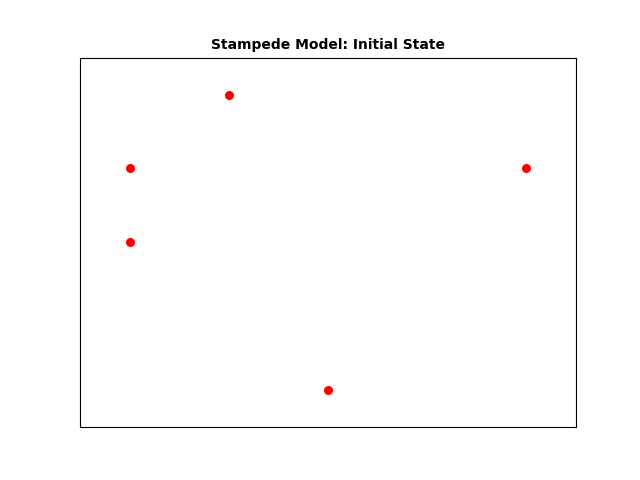
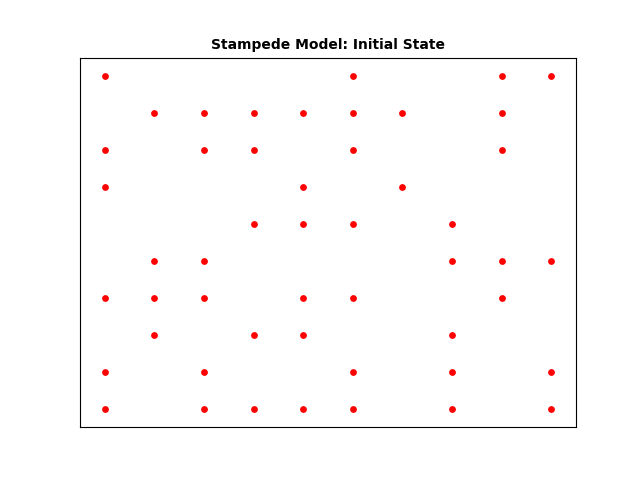
index errors were fixed, I /think/ the graph is moving agents correctly, output is only printing for a select few agents though :(

diff --git a/Stampede.py b/Stampede.py
@@ -46,6 +46,7 @@ class Stampede:
                     newAgent.position['x'] = x
                     newAgent.position['y'] = y
                     break
+
     def nine_square_ring(self, x,y):
         full_spots = 0
         # Lower left square
@@ -184,23 +185,28 @@ class Stampede:
             self.old_agents = copy.deepcopy(self.agents)
             n_changes = 0
             
-            for row in self.old_agents: # each player moves one-by-one
+            for row in self.agents: # each player moves one-by-one
                 for agent in row:
                     if agent != '' and agent.alive: # if that spot isn't empty
-                        print("agent coords: ", agent.position)
+                        # print("agent coords: ", agent.position)
                         firstStep = self.get_first_step(agent)
 
                         if firstStep == None: # if the agent can't find a path to where they want to go
+                            # swap x,y coords so that the following logic vvv works:
+                            # tempX = agent.position['x']
+                            # agent.position['x'] = agent.position['y']
+                            # agent.position['y'] = tempX 
+
                             # move forward, or if you can't, then vvv
                             # play a normal-form game with the person in front of them
                             if agent.position['y'] != 0:  # if agent is not at the bottom row 
-                                other_agent = self.agents[agent.position['y'] + 1][agent.position['x']]
-                                if self.agents[agent.position['y'] + 1][agent.position['x']] == '':
+                                other_agent = self.agents[agent.position['y'] - 1][agent.position['x']]
+                                if self.agents[agent.position['y'] - 1][agent.position['x']] == '':
                                     # Move the agent forward if space is empty
-                                    self.agents[agent.position['y'] + 1][agent.position['x']] = agent
+                                    self.agents[agent.position['y'] - 1][agent.position['x']] = agent
                                     self.agents[agent.position['y']][agent.position['x']] = ''
                                     n_changes += 1  # Increment the change counter
-                                elif self.agents[agent.position['y'] + 1][agent.position['x']] != '' and other_agent.alive:
+                                elif self.agents[agent.position['y'] - 1][agent.position['x']] != '' and other_agent.alive:
                                     # Play a normal-form game
                                     agent_strategy, other_agent_strategy = self.play_normal_form_game(agent, other_agent)
                                     # game results 
@@ -271,9 +277,9 @@ class Stampede:
                                 
                                     n_changes += 1  # Increment the change counter
 
-                            elif self.agents[agent.position['x']][agent.position['y']] != '':
+                            elif self.agents[agent.position['y']][agent.position['x']] != '':
                                 # remove from agent list 
-                                self.agents[agent.position['x']][agent.position['y']] = ''
+                                self.agents[agent.position['y']][agent.position['x']] = ''
                                 n_changes += 1  # Increment the change counter
                             else:
                                 # has already been removed, do nothing
@@ -550,7 +556,7 @@ class Stampede:
     def results(self, agent_list):
         isDead = 0
         didFall = 0
-        counter = 1
+        counter = 0
         for agents in agent_list:
             for agent in agents:
                 if (agent != ''):
@@ -569,7 +575,7 @@ class Stampede:
                     print()
                     if not agent.alive:
                         isDead += 1
-                    if not agent.fallen:
+                    if agent.fallen:
                         didFall += 1
                 counter +=1
         print("-------Total Stats-------")
@@ -578,15 +584,15 @@ class Stampede:
 def main():
     ##Starter Simulation
     weightDistribution = {"mean": 160, "sd": 20}  # not facts idk what weight distribution is
-    stampede = Stampede(5, 5, 0.2, 200, weightDistribution)  # TODO: CHANGE THIS EVENTUALLY TO A BIGGER ARRAY :)
+    stampede = Stampede(10, 10, 0.5, 200, weightDistribution)  # TODO: CHANGE THIS EVENTUALLY TO A BIGGER ARRAY :)
     stampede.populate()
 
     stampede.plot('Stampede Model: Initial State', 'stampede_initial.png')
 
     stampede.move_locations()
 
-    stampede.print_a_star_copy()
-    print(stampede.agents[1])
+    # stampede.print_a_star_copy()
+    # print(stampede.agents[1])
     stampede.results(stampede.agents)
 
     # stampede.move_locations()

diff --git a/A_star.py b/A_star.py
@@ -36,7 +36,7 @@ class A_Star:
     
     # Trace the path from source to destination
     def trace_path(self, cell_details, dest):
-        print("The Path is ")
+        # print("The Path is ")
         path = []
         row = dest[0]
         col = dest[1]
@@ -55,9 +55,9 @@ class A_Star:
         path.reverse()
     
         # Print the path
-        for i in path:
-            print("->", i, end=" ")
-        print()
+        # for i in path:
+        #     print("->", i, end=" ")
+        # print()
 
     # this function returns the first step in the path (that isn't the cell the agent is already in)
     def first_step_of_path(self, cell_details, dest):
@@ -89,7 +89,7 @@ class A_Star:
     
         # Check if we are already at the destination
         if self.is_destination(src[0], src[1]):
-            print("We are already at the destination")
+            # print("We are already at the destination")
             return
     
         # Initialize the closed list (visited cells)
@@ -164,5 +164,6 @@ class A_Star:
 
         # If the destination is not found after visiting all cells
         if not found_dest:
-            print("Failed to find the destination cell")
+            # print("Failed to find the destination cell")
+            return None
  
